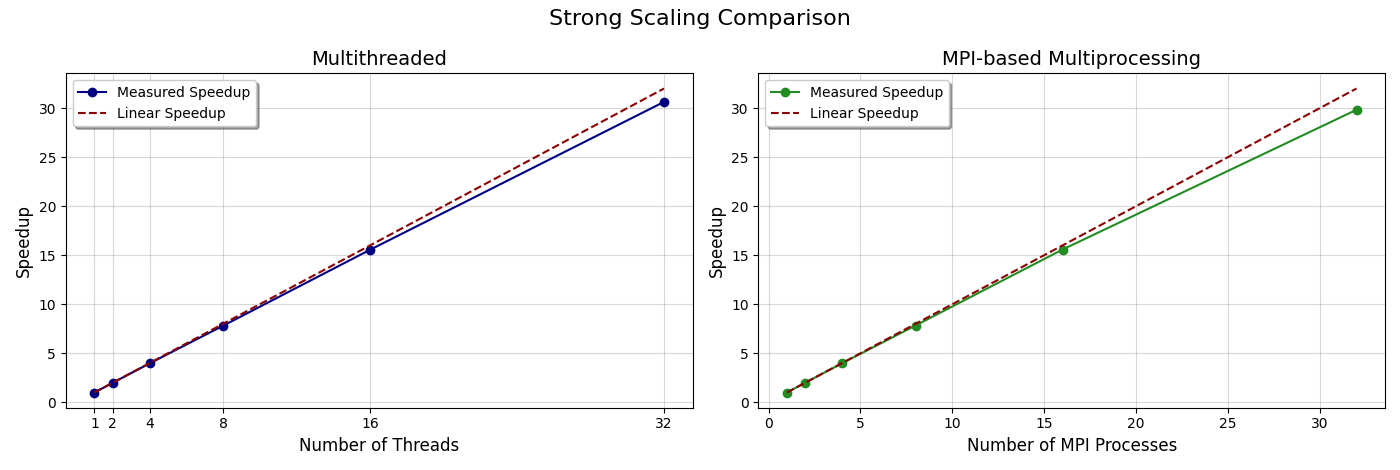
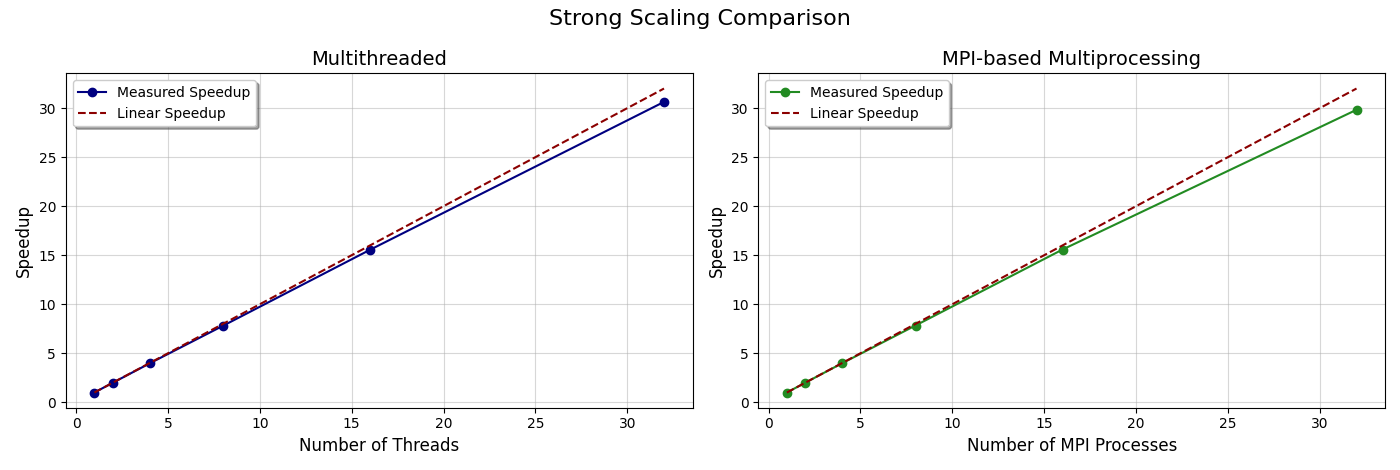
Modified plots dims, remove unnecessary deps, fixed x-axis ticks && README links

diff --git a/README.md b/README.md
@@ -41,7 +41,7 @@ $$f(x) = \sum_{i=1}^{n-1} \left( 100 \cdot (x_{i+1} - x_i^2)^2 + (1 - x_i)^2 \ri
 
 The Rosenbrock function is a common benchmark for optimization algorithms, having a global minimum at $(1, 1, \dots, 1)$, where the function value is 0. This function is non-convex, which poses challenges for gradient-based optimization methods, making it a good test case for global optimization algorithms. For more details, refer [here][rosenbrock-link].
 
-> [!INFO]  
+> [!NOTE]  
 > An implementation of the Hooke-Jeeves method in C is available at [NetLib][netlib-link]. This implementation computes a point $X$ where the nonlinear function $f(X)$ achieves a local minimum. The objective function $f(X)$ is scalar, defined as: $f: \mathbb{R}^n \to \mathbb{R}^1$. The Rust implementation of the Hooke-Jeeves method in this project is based on this C implementation from NetLib.
 
 # Installation
@@ -51,15 +51,15 @@ To get started with this project, ensure that the following prerequisites are me
 1. **Rust** (edition >= **2021**) is installed on your system.    
 
 2. An **MPI** implementation is installed, such as:  
-   - [OpenMPI](open-mpi-link)  
-   - [MPICH](mpich-link)  
+   - [OpenMPI][open-mpi-link]  
+   - [MPICH][mpich-link]  
 
 Ensure that the `mpirun` command is available in your system's **PATH** for running the MPI-based binaries.
 
 1. **Clone the repository and navigate to the project's directory**:  
    ```bash
-   git clone https://github.com/Sofosss/CEID-Parallel_Hooke-Jeeves.git
-   cd CEID-Parallel_Hooke-Jeeves
+   git clone https://github.com/Sofosss/Parallel-Hooke-Jeeves.git
+   cd Parallel-Hooke-Jeeves
    ```
 2. **The project includes 4 binary crates (each corresponding to a different scheme of the Hooke-Jeeves Method (multithreading, multiprocessing, hybrid and sequential)). Install them with**:
     ```bash
@@ -103,7 +103,7 @@ All binaries require two mandatory arguments:
     ```bash
     mpirun -n <nprocesses> hybrid_hj <nvars> <ntrials> <nthreads>
     ```
-> [!INFO]
+> [!NOTE]
 > If you prefer not to manually build or install the binaries using `cargo`, you can use the provided [script][run-link]. This script automates the process of building and running the required binary for any of the implemented schemes. To use the script, ensure it is executable by running the command `chmod +x run.sh`. Once the script is ready, you can run it by specifying the binary name along with the required arguments.
 
 # Software Overview
@@ -116,17 +116,17 @@ In this project, three parallelization schemes for the Multistart Hooke-Jeeves O
 
 3. **Hybrid Model (MPI processes + threads)**: A combination of multithreading and MPI-based multiprocessing is employed in this scheme. Each MPI process spawns multiple threads to further parallelize the workload within its assigned subset of trials. The threads within each MPI process independently execute the Hooke-Jeeves method on their allocated trials and compute their respective thread-local minima. Once all threads within a process complete execution, the main thread of that process identifies the process-local minimum by comparing the thread-local minima. The process-local minima are then communicated to the main MPI process, which gathers them using an MPI gather operation and determines the global minimum by comparing these values. This design efficiently combines multithreading for intra-process parallelism with MPI-based multiprocessing for inter-process parallelism. The implementation for this hybrid approach is available [here][hybrid-model-link].
 
-> [!INFO] 
+> [!NOTE] 
 > The parallel implementations are based on the [sequential version][seq-vers-link] of the algorithm, which initiates $n_{\text{trials}}$ random starting points in a search space of $n_{\text{vars}}$ dimensions, applies the Hooke-Jeeves method to each starting point and determines the global minimum by comparing the outcomes across all trials. The search space for each dimension is constrained to the interval $[-5, 5]$ and the default parameters from the [NetLib implementation][netlib-link] of the Hooke-Jeeves algorithm are utilized.
 
 # Tests and Results
-To evaluate and compare the performance of the different parallelization schemes implemented for the Hooke-Jeeves method, the [benchmarking script](benchmark-link) was utilized. For each combination of workers' arguments, five runs were executed and the average result was taken. The tests were conducted using a fixed number of 32 variables (`nvars`) and 65536 trials (`ntrials`).
+To evaluate and compare the performance of the different parallelization schemes implemented for the Hooke-Jeeves method, the [benchmarking script][benchmark-link] was utilized. For each combination of workers' arguments, five runs were executed and the average result was taken. The tests were conducted using a fixed number of 32 variables (`nvars`) and 65536 trials (`ntrials`).
 
 All executions were conducted on an Nvidia DGX system (128 logical CPU cores [64 physical cores - 2 threads per core], 1 TB of DDR4 RAM).
 
 <br>
 <p align="center">
- <img src="./media/strong_scaling.png"  alt="Strong Scaling Comparison Graph" width = 80%>
+ <img src="./media/strong_scaling.png"  alt="Strong Scaling Comparison Graph" width = 95%>
     <br>
     <em><i>Figure 1: Comparison of speedup for multithreading and MPI-based multiprocessing schemes</i></em>
 </p>
@@ -135,7 +135,7 @@ The graph above shows a comparison of speedup between the multithreading and MPI
 
 <br>
 <p align="center">
- <img src="./media/hybrid_scheme.png"  alt="Hybrid Scheme SpeedUp Graph" width = 55%>
+ <img src="./media/hybrid_scheme.png"  alt="Hybrid Scheme SpeedUp Graph" width = 75%>
     <br>
     <em><i>Figure 2: Performance comparison of the hybrid scheme with 1, 2 and 4 threads per MPI process</i></em>
 </p>
@@ -167,3 +167,5 @@ Distributed under the [MIT] License. See `LICENSE.md` for more details.
 [mpich-link]: https://www.mpich.org/
 [run-link]: ./run.sh
 [benchmark-link]: ./benchmark.sh
+[open-mpi-link]: https://www.open-mpi.org/
+[mpich-link]: https://www.mpich.org/
